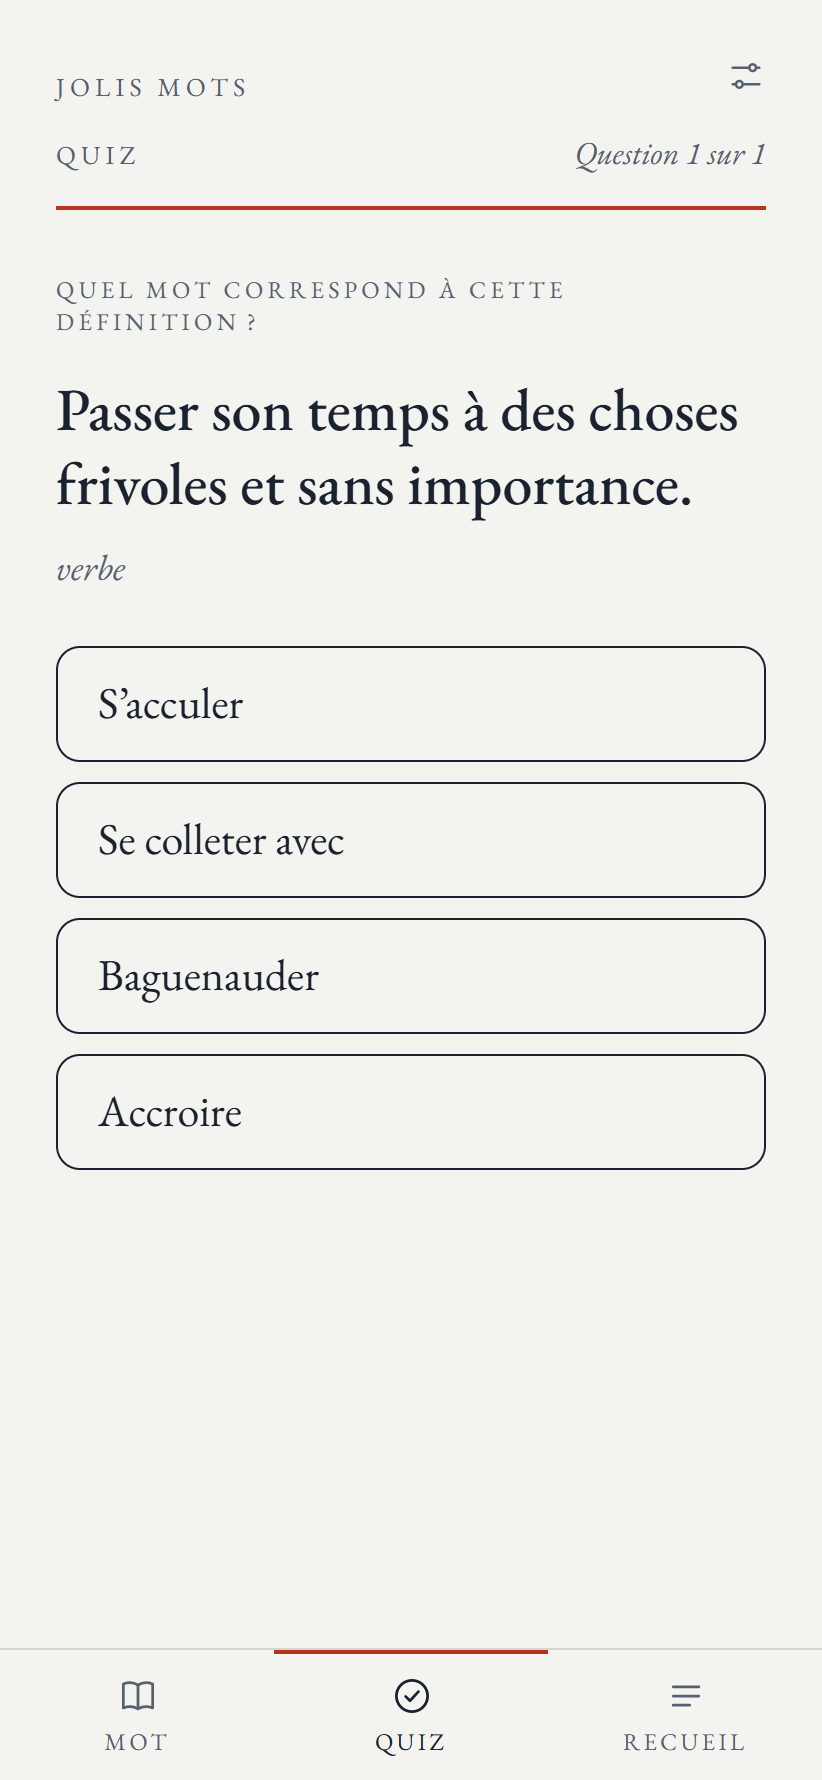
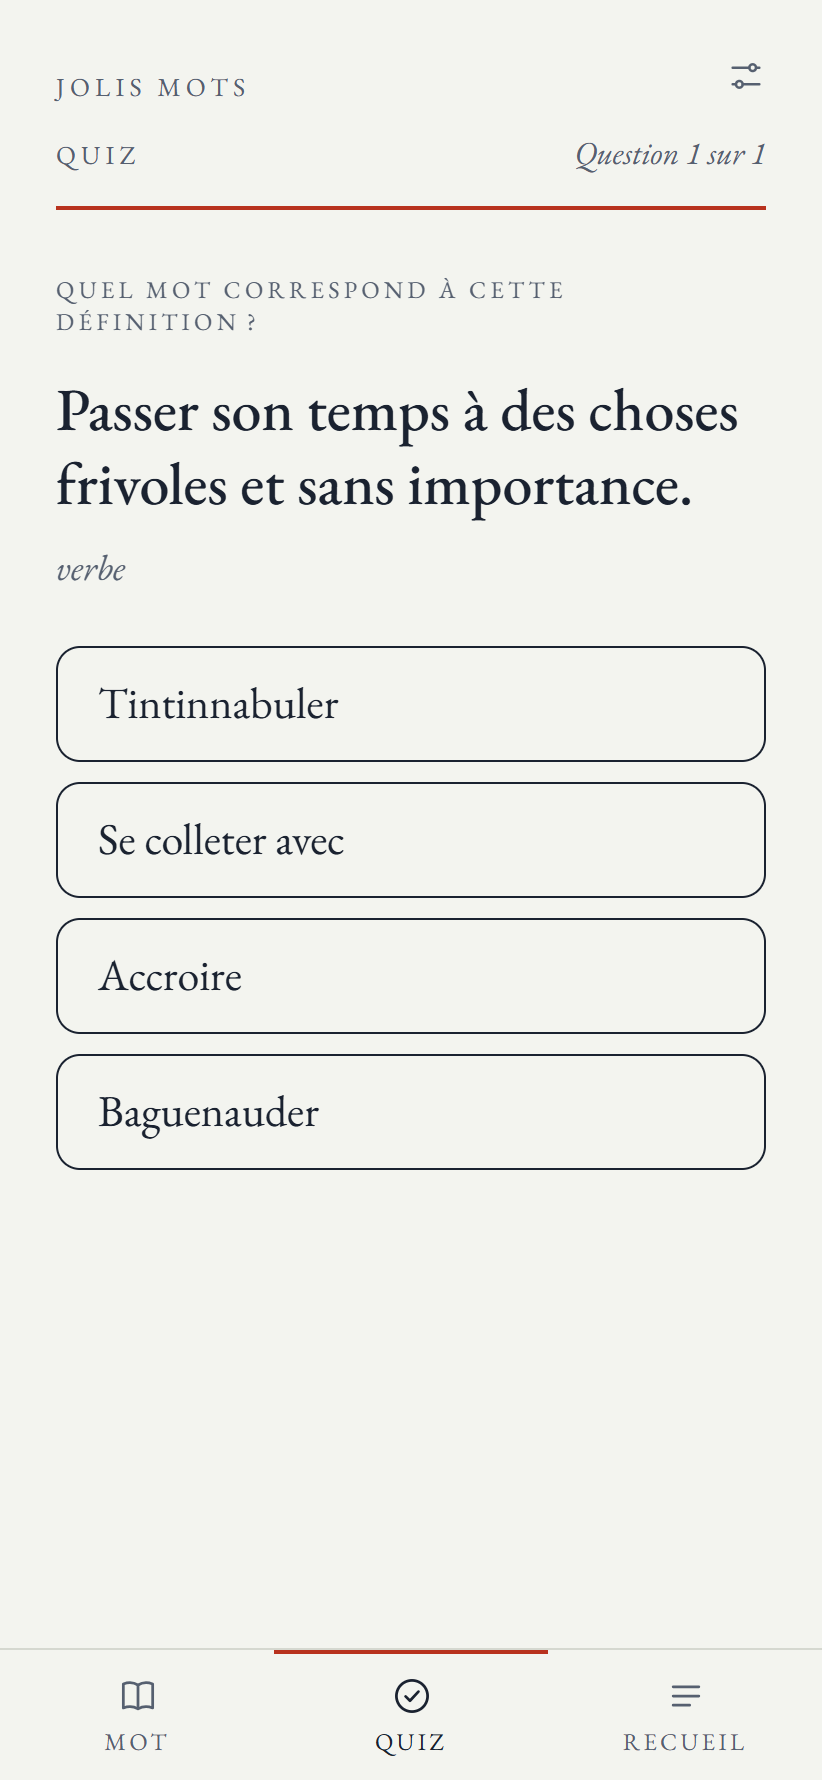
Réglages : l'heure de la liste des mots

Changed region(s): [[0.1217, 0.3708, 0.3954, 0.4017], [0.1217, 0.618, 0.365, 0.6489], [0.1217, 0.5253, 0.365, 0.5562]]

diff --git a/apps/web/src/ecrans/Reglages.svelte b/apps/web/src/ecrans/Reglages.svelte
@@ -13,7 +13,7 @@
 
   const dateListe = $derived.by(() => {
     const t = Date.parse(etat.liste.publie);
-    return Number.isNaN(t) ? 'inconnue' : new Intl.DateTimeFormat('fr-CH', { dateStyle: 'long' }).format(t);
+    return Number.isNaN(t) ? 'inconnue' : new Intl.DateTimeFormat('fr-CH', { dateStyle: 'long', timeStyle: 'short' }).format(t);
   });
 
   let confirmation = $state(false);

diff --git a/PROJET.md b/PROJET.md
@@ -88,7 +88,7 @@ Sur la fiche, le mot a une seule grande taille, 54 px ; une expression passe à 
 - `ecrans/Mot.svelte` : la fiche du mot courant (`composants/Fiche.svelte`), un glissement horizontal de plus de 60 px, au doigt ou au stylet, pour changer de mot (à la souris, glisser sélectionne le texte), l'étoile des favoris, « Mot suivant ».
 - `ecrans/Quiz.svelte` : le choix « Tous les mots » ou « Les mots que j'ai vus », puis les questions ; voir plus bas.
 - `ecrans/Recueil.svelte` : la liste alphabétique avec lettrines, la recherche, les filtres sur une ligne (Bouvier, Tesson, Rollin, l'étoile des favoris, et « Autres », qui ouvre un volet avec les autres auteurs et le nombre de mots de chacun), la fiche ouverte dans un volet. Un seul filtre est allumé à la fois ; toucher le filtre allumé l'éteint. Quand un autre auteur est choisi, le bouton « Autres » prend son nom ; un nom trop long pour la ligne finit par « … », le nom entier restant dans `aria-label` et `title`.
-- `ecrans/Reglages.svelte` : questions par quiz, palette, version, date de la liste, « Effacer mes progrès » ; ce lien reste visible au-dessus de sa confirmation.
+- `ecrans/Reglages.svelte` : questions par quiz, palette, version, date et heure de la liste (« 25 novembre 2026 à 03:44 », heure de l'appareil), « Effacer mes progrès » ; ce lien reste visible au-dessus de sa confirmation.
 - `ecrans/Atelier.svelte` : l'atelier, sur bureau seulement ; voir plus bas.
 - `composants/Entete.svelte`, `composants/Onglets.svelte` : l'en-tête (la marque et le bouton des réglages) et les onglets, trois sur le téléphone, quatre sur bureau.
 - `volet.ts` : l'action Svelte des volets et des confirmations. À l'ouverture, le curseur va sur l'élément marqué `data-depart`, sinon sur le volet (qui reçoit toujours `tabindex="-1"`) ; Échap ferme, où que soit le curseur ; à la fermeture, le curseur revient à l'élément qui l'avait.

diff --git a/CHANGELOG.md b/CHANGELOG.md
@@ -8,6 +8,7 @@ Toutes les versions de Jolis Mots, de la plus récente à la plus ancienne. Les 
 
 - Les filtres du Recueil : Bouvier, Tesson, Rollin, l'étoile des favoris et « Autres ». Méral passe sous « Autres », ce qui laisse la place au nom de l'auteur choisi.
 - La fiche d'un mot n'affiche plus les pages : l'auteur et l'ouvrage suffisent.
+- Dans les réglages, la liste des mots indique l'heure de son envoi en plus de la date (« 25 novembre 2026 à 03:44 »).
 
 ### Corrigé
 

diff --git a/README.md b/README.md
@@ -76,7 +76,7 @@ Tous les mots qui ont une définition, par ordre alphabétique. On peut chercher
 
 - **Questions par quiz** : 5, 10, 15 ou 20.
 - **Palette** : Comme le système, Papier, Nuit, Ivoire ou Céruléen.
-- La version de l'application et la date de la liste des mots.
+- La version de l'application, et la date et l'heure de la liste des mots.
 - **Effacer mes progrès** : efface les mots vus, les révisions et les favoris, après confirmation.
 
 ### Atelier (Windows)
